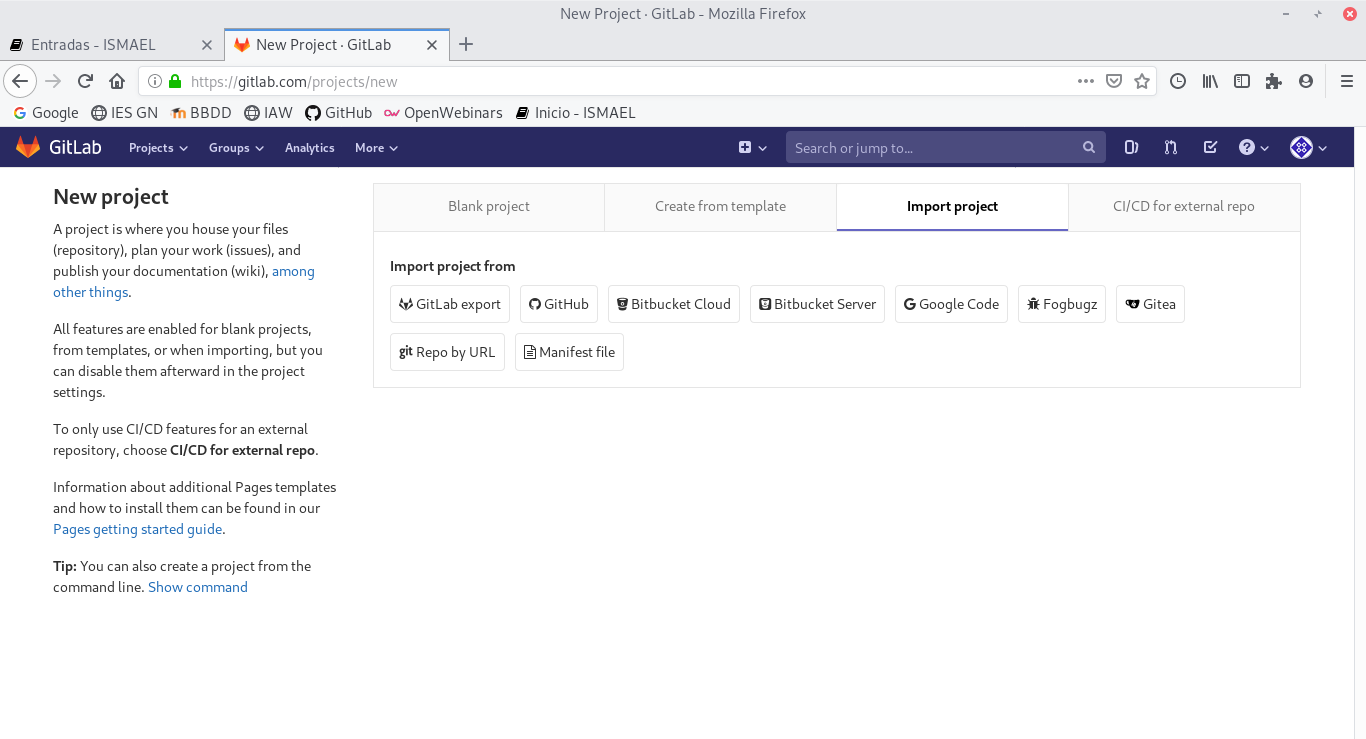
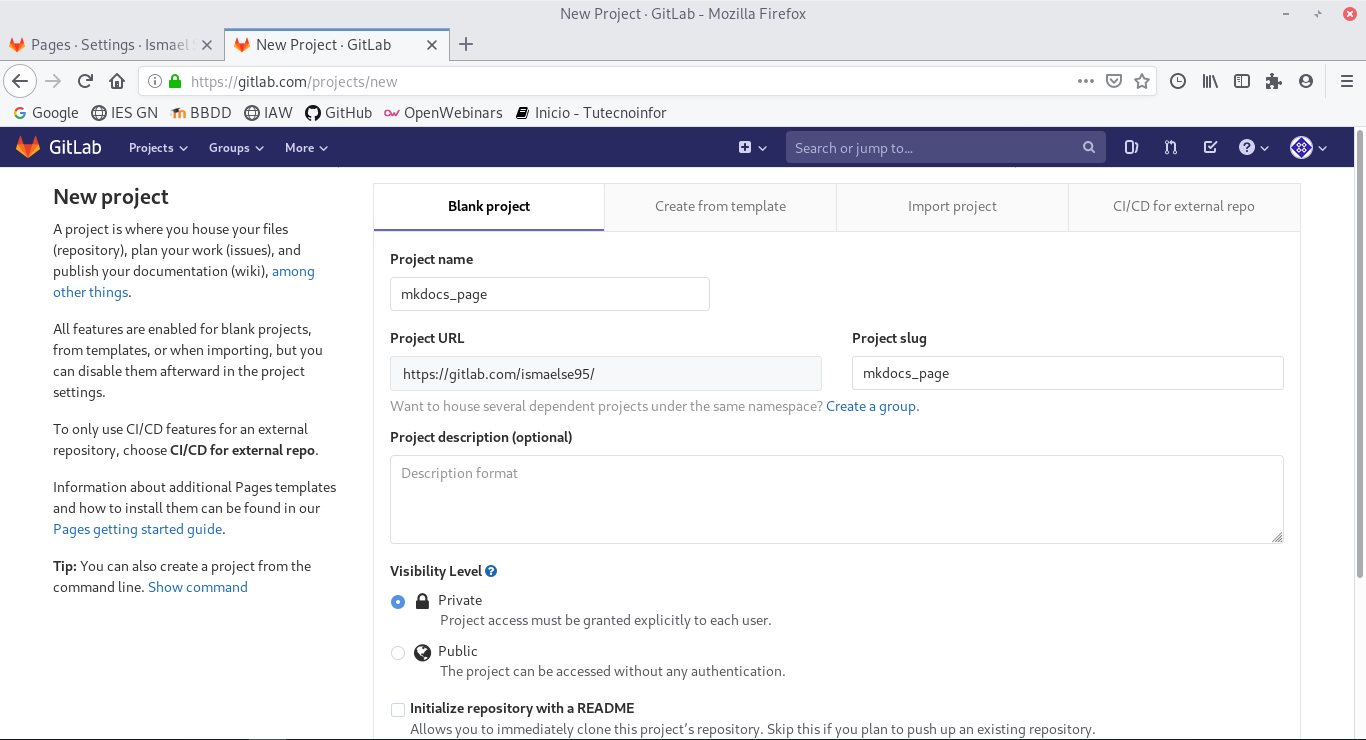
cambios

diff --git a/IAW/web_estática.md b/IAW/web_estática.md
@@ -125,13 +125,9 @@ ismael@Ismael:~/GITHUB/mkdocsdesarrollo$ ls -a
 
 4.- Explica el proceso de despliegue utilizado por el servicio de hosting que vas a utilizar. (2 puntos)
 
-Para desplegar nuestra página estatica en nuestro hosting Gitlab pages lo primero que tenemos que hacer es crear un nuevo proyecto dentro de gitlab, seleccionamos *import project* y github:
+Para desplegar nuestra página estatica en nuestro hosting Gitlab pages lo primero que tenemos que hacer es crear un nuevo proyecto dentro de gitlab:
 
 ![Primera página](gitlab1.png)
-
-Lo siguiente es seleccionar nuestro repositorio html en mi caso recibe el nombre de mkdocs, le damos a importar y ya tendriamos el proyecto creado:
-
-![Segunda página](gitlab2.png)
 
 Una vez creado el proyecto entramos y tendremos que crear un fichero llamado *.gitlab-ci.yml*, para ello nos dirigimos a repository > files y crearemos un nuevo fichero que tendremos que introducir los siguientes datos para que la página pueda montarse correctamente:
 
@@ -150,10 +146,6 @@ pages:
 ~~~
 
 ![Tercera página](gitlab3.png)
-
-Por último cambiaremos el nombre del sitio en gitlab para poder acceder, para ello nos dirigimos a settings > general > expandimos avanced y en changed path cambiaremos el nomnbre:
-
-![Cuarta página](gitlab4.png)
 
 Con esto ya tendremos nuestra página subida a gitlab.
 
@@ -175,10 +167,10 @@ cd /home/ismael/GITHUB/mkdocsdesarrollo/
 git add .
 git commit -am "$1"
 git push
-mkdocs build -d ../mkdocs/
+mkdocs build -d ../mkdocs_page/
 
 #Subir a entorno de producción los ficheros HTML
-cd /home/ismael/GITHUB/mkdocs
+cd /home/ismael/GITHUB/mkdocs_page
 git add .
 git commit -am "$1"
 git push
